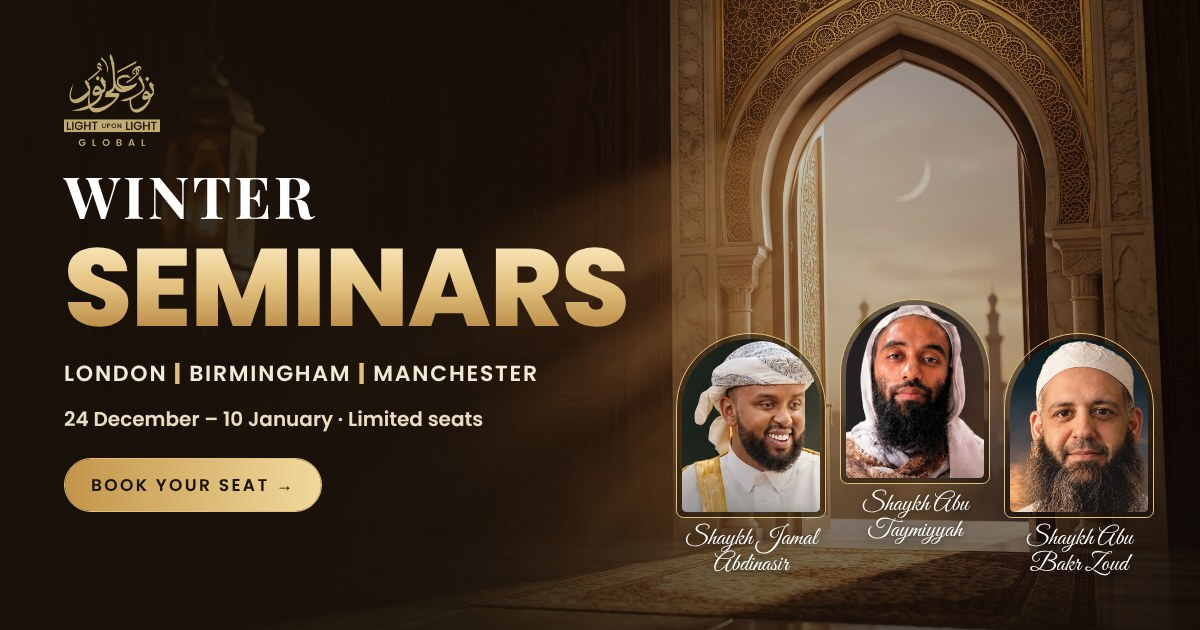
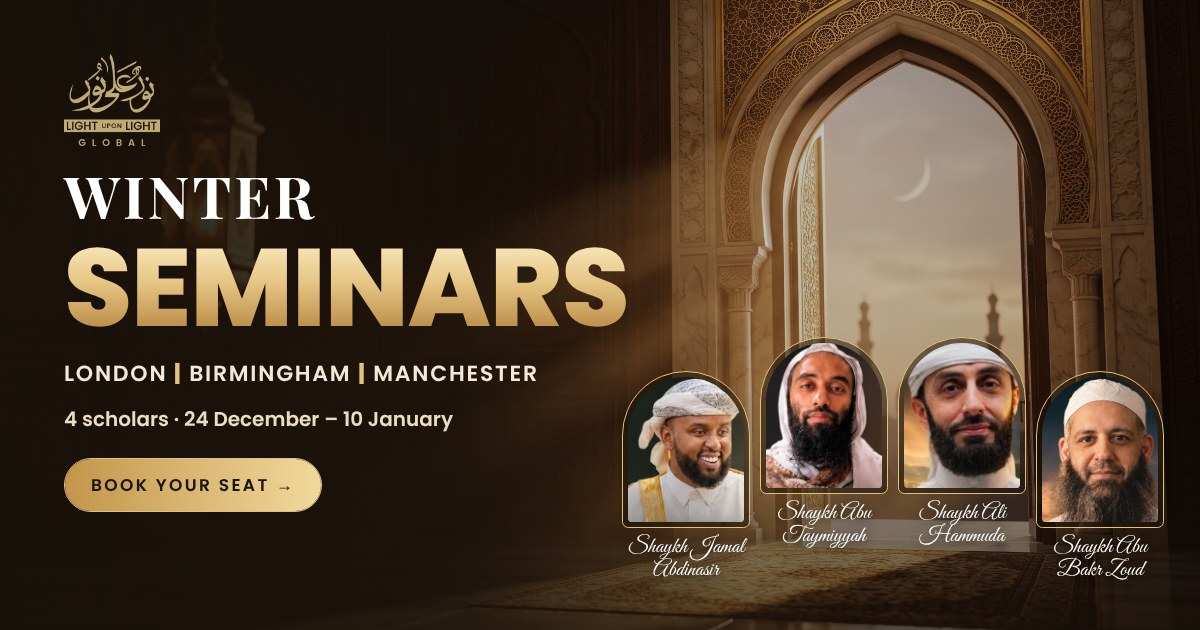
Add Shaykh Ali Hammuda: Ashab al-A'raf and Before You Say I Can't
Claude-Session: https://claude.ai/code/session_01KZfaKi19dkNuS3dSrDceg3

Changed region(s): [[0.5242, 0.4524, 0.9867, 0.9349], [0.0617, 0.6333, 0.4008, 0.6937]]

diff --git a/index.html b/index.html
@@ -3,15 +3,15 @@
 <head>
 <meta charset="utf-8">
 <meta name="viewport" content="width=device-width, initial-scale=1">
-<meta name="description" content="Light Upon Light Winter Seminars with Shaykh Jamal Abdinasir, Shaykh Abu Taymiyyah and Shaykh Abu Bakr Zoud. London, Birmingham and Manchester, 24 Dec – 10 Jan. Book your seat.">
+<meta name="description" content="Light Upon Light Winter Seminars with Shaykh Jamal Abdinasir, Shaykh Abu Taymiyyah, Shaykh Ali Hammuda and Shaykh Abu Bakr Zoud. London, Birmingham and Manchester, 24 Dec – 10 Jan. Book your seat.">
 <meta property="og:title" content="Winter Seminars · Light Upon Light">
-<meta property="og:description" content="Three scholars. Three cities. Book your seat for London, Birmingham or Manchester.">
+<meta property="og:description" content="Four scholars. Three cities. Book your seat for London, Birmingham or Manchester.">
 <meta property="og:type" content="website">
 <meta property="og:url" content="https://fatimahpatel42-ctrl.github.io/lightuponlight-seminars/">
 <meta property="og:image" content="https://fatimahpatel42-ctrl.github.io/lightuponlight-seminars/assets/og-cover.jpg">
 <meta property="og:image:width" content="1200">
 <meta property="og:image:height" content="630">
-<meta property="og:image:alt" content="Light Upon Light Winter Seminars with Shaykh Jamal Abdinasir, Shaykh Abu Taymiyyah and Shaykh Abu Bakr Zoud">
+<meta property="og:image:alt" content="Light Upon Light Winter Seminars with Shaykh Jamal Abdinasir, Shaykh Abu Taymiyyah, Shaykh Ali Hammuda and Shaykh Abu Bakr Zoud">
 <meta name="twitter:card" content="summary_large_image">
 <meta name="twitter:image" content="https://fatimahpatel42-ctrl.github.io/lightuponlight-seminars/assets/og-cover.jpg">
 <link rel="icon" href="assets/lul-logo.png">
@@ -92,6 +92,7 @@ h1.shine{animation:shimmer 6s linear infinite, fadeUp .9s cubic-bezier(.2,.7,.2,
 .bar-text span{display:none}
 .bar-text{font-size:13px !important;line-height:1.3 !important}
 .bar-faces{display:none !important}
+.arch-name{font-size:15px !important}
 #book{padding-top:64px !important;padding-bottom:48px !important}
 #book > div{gap:28px !important}
 #seminars{padding-top:56px !important;padding-bottom:0 !important}
@@ -144,7 +145,7 @@ h1.shine{animation:shimmer 6s linear infinite, fadeUp .9s cubic-bezier(.2,.7,.2,
 <p class="fu d2" style="margin: 0 0 6px; font-family: 'Playfair Display', serif; font-size: clamp(40px, 4.8vw, 72px); font-weight: 700; line-height: 1; letter-spacing: 0.06em; color: #FFFFFF; text-shadow: 0 4px 24px rgba(0,0,0,0.4)">WINTER</p>
 <h1 class="shine fu d3" style="margin: 0; font-weight: 800; font-size: clamp(66px, 9.4vw, 144px); line-height: 0.92; letter-spacing: -0.01em; text-transform: uppercase">Seminars</h1>
 </div>
-<p class="fu d4" style="margin: 0; max-width: 560px; font-size: clamp(18px, 1.7vw, 22px); font-weight: 400; line-height: 1.55; color: #F3EAD6">Three scholars. Three cities. Three nights to renew <span style="color: #F1D99C; font-weight: 600">your home</span>, <span style="color: #F1D99C; font-weight: 600">your Ramadan</span> and <span style="color: #F1D99C; font-weight: 600">your salah</span>.</p>
+<p class="fu d4" style="margin: 0; max-width: 560px; font-size: clamp(18px, 1.7vw, 22px); font-weight: 400; line-height: 1.55; color: #F3EAD6">Four scholars. Three cities. Winter nights to renew <span style="color: #F1D99C; font-weight: 600">your home</span>, <span style="color: #F1D99C; font-weight: 600">your Ramadan</span>, <span style="color: #F1D99C; font-weight: 600">your salah</span> and <span style="color: #F1D99C; font-weight: 600">your direction</span>.</p>
 
 <div class="fu d5" style="display: flex; flex-wrap: wrap; gap: 10px 28px; font-size: 15px; color: #E9DDC2">
 <span style="display: flex; align-items: center; gap: 8px"><svg width="18" height="18" viewBox="0 0 24 24" fill="none" stroke="#E2C17E" stroke-width="1.6" aria-hidden="true"><rect x="3" y="5" width="18" height="16" rx="1"></rect><path d="M3 10h18M8 3v4M16 3v4"></path></svg>24 Dec – 10 Jan</span>
@@ -162,18 +163,22 @@ h1.shine{animation:shimmer 6s linear infinite, fadeUp .9s cubic-bezier(.2,.7,.2,
 </div>
 
 <!-- speaker arches -->
-<div class="fu d4" style="flex: 1 1 460px; min-width: 0; display: flex; justify-content: center; align-items: flex-end; gap: 14px">
-<a href="#righteous-home" class="lift" style="flex: 1 1 0; max-width: 180px; display: flex; flex-direction: column; gap: 10px; text-decoration: none; text-align: center">
+<div class="fu d4" style="flex: 1 1 520px; min-width: 0; display: flex; justify-content: center; align-items: flex-end; gap: 12px">
+<a href="#righteous-home" class="lift" style="flex: 1 1 0; max-width: 160px; display: flex; flex-direction: column; gap: 10px; text-decoration: none; text-align: center">
 <div class="float1" style="border: 1px solid #E2C17E; border-radius: 120px 120px 10px 10px; padding: 6px; background: rgba(36,26,16,0.5)"><img src="assets/shaykh-jamal-abdinasir.jpg" alt="Shaykh Jamal Abdinasir" style="width: 100%; aspect-ratio: 4 / 5; object-fit: cover; display: block; border-radius: 114px 114px 6px 6px"></div>
-<span style="font-family: 'Great Vibes', cursive; font-size: 24px; line-height: 1.1; color: #F3EAD6">Shaykh Jamal Abdinasir</span>
+<span class="arch-name" style="font-family: 'Great Vibes', cursive; font-size: 22px; line-height: 1.1; color: #F3EAD6">Shaykh Jamal Abdinasir</span>
 </a>
-<a href="#productive-ramadan" class="lift" style="flex: 1 1 0; max-width: 200px; display: flex; flex-direction: column; gap: 10px; text-decoration: none; text-align: center; margin-bottom: 40px">
+<a href="#productive-ramadan" class="lift" style="flex: 1 1 0; max-width: 160px; display: flex; flex-direction: column; gap: 10px; text-decoration: none; text-align: center; margin-bottom: 36px">
 <div class="float2" style="border: 1px solid #E2C17E; border-radius: 120px 120px 10px 10px; padding: 6px; background: rgba(36,26,16,0.5)"><img src="assets/shaykh-abu-taymiyyah.jpg" alt="Shaykh Abu Taymiyyah" style="width: 100%; aspect-ratio: 4 / 5; object-fit: cover; display: block; border-radius: 114px 114px 6px 6px"></div>
-<span style="font-family: 'Great Vibes', cursive; font-size: 24px; line-height: 1.1; color: #F3EAD6">Shaykh Abu Taymiyyah</span>
+<span class="arch-name" style="font-family: 'Great Vibes', cursive; font-size: 22px; line-height: 1.1; color: #F3EAD6">Shaykh Abu Taymiyyah</span>
 </a>
-<a href="#al-fatiha" class="lift" style="flex: 1 1 0; max-width: 180px; display: flex; flex-direction: column; gap: 10px; text-decoration: none; text-align: center">
+<a href="#ashab-al-araf" class="lift" style="flex: 1 1 0; max-width: 160px; display: flex; flex-direction: column; gap: 10px; text-decoration: none; text-align: center; margin-bottom: 36px">
+<div class="float2" style="border: 1px solid #E2C17E; border-radius: 120px 120px 10px 10px; padding: 6px; background: rgba(36,26,16,0.5)"><img src="assets/shaykh-ali-hammuda.jpg" alt="Shaykh Ali Hammuda" style="width: 100%; aspect-ratio: 4 / 5; object-fit: cover; display: block; border-radius: 114px 114px 6px 6px"></div>
+<span class="arch-name" style="font-family: 'Great Vibes', cursive; font-size: 22px; line-height: 1.1; color: #F3EAD6">Shaykh Ali Hammuda</span>
+</a>
+<a href="#al-fatiha" class="lift" style="flex: 1 1 0; max-width: 160px; display: flex; flex-direction: column; gap: 10px; text-decoration: none; text-align: center">
 <div class="float3" style="border: 1px solid #E2C17E; border-radius: 120px 120px 10px 10px; padding: 6px; background: rgba(36,26,16,0.5)"><img src="assets/shaykh-abu-bakr-zoud.jpg" alt="Shaykh Abu Bakr Zoud" style="width: 100%; aspect-ratio: 4 / 5; object-fit: cover; display: block; border-radius: 114px 114px 6px 6px"></div>
-<span style="font-family: 'Great Vibes', cursive; font-size: 24px; line-height: 1.1; color: #F3EAD6">Shaykh Abu Bakr Zoud</span>
+<span class="arch-name" style="font-family: 'Great Vibes', cursive; font-size: 22px; line-height: 1.1; color: #F3EAD6">Shaykh Abu Bakr Zoud</span>
 </a>
 </div>
 </div>
@@ -187,7 +192,7 @@ h1.shine{animation:shimmer 6s linear infinite, fadeUp .9s cubic-bezier(.2,.7,.2,
 <div><p style="margin: 0; font-family: Cinzel, serif; font-size: 34px; font-weight: 700; line-height: 1; color: #8A6A2E">[XX+]</p><p style="margin: 4px 0 0; font-size: 12px; font-weight: 600; letter-spacing: 0.16em; text-transform: uppercase">Events held</p></div>
 <div><p style="margin: 0; font-family: Cinzel, serif; font-size: 34px; font-weight: 700; line-height: 1; color: #8A6A2E">[X]</p><p style="margin: 4px 0 0; font-size: 12px; font-weight: 600; letter-spacing: 0.16em; text-transform: uppercase">Countries</p></div>
 </div>
-<p style="margin: 0; max-width: 520px; font-size: 15px; color: #4E4434">Past Light Upon Light guests include <strong style="color: #2A2014">Mufti Menk, Sheikh Omar Suleiman, Sheikh Ali Hammuda</strong> and <strong style="color: #2A2014">Sheikh Belal Assaad</strong>.</p>
+<p style="margin: 0; max-width: 520px; font-size: 15px; color: #4E4434">Past Light Upon Light guests include <strong style="color: #2A2014">Mufti Menk, Sheikh Omar Suleiman</strong> and <strong style="color: #2A2014">Sheikh Belal Assaad</strong>.</p>
 </div>
 </section>
 
@@ -230,6 +235,20 @@ h1.shine{animation:shimmer 6s linear infinite, fadeUp .9s cubic-bezier(.2,.7,.2,
 <p style="margin: 0 0 4px; display: inline-block; font-size: 11px; font-weight: 700; letter-spacing: 0.16em; text-transform: uppercase; color: #1A140C; background: #F1D99C; padding: 2px 10px; border-radius: 999px">[Open to]</p>
 <p style="margin: 0; font-weight: 800; font-size: 22px; line-height: 1.2; text-transform: uppercase">The Most Productive Ramadan</p>
 <p style="margin: 0; font-size: 15px; color: #D9CFB8">with Shaykh Abu Taymiyyah · [Venue] · [Time]</p>
+</div>
+<div style="flex: 1 1 200px; display: flex; flex-direction: column; align-items: stretch; gap: 6px">
+<a href="https://lightuponlight.co.uk" class="btn-gold" style="background: linear-gradient(180deg,#F1D99C,#C3954A); color: #1A140C; text-decoration: none; font-weight: 700; font-size: 14px; letter-spacing: 0.12em; text-transform: uppercase; min-height: 52px; border-radius: 999px; display: flex; align-items: center; justify-content: center">Book · £[XX]</a>
+<p style="margin: 0; text-align: center; font-size: 12px; color: #CFC4AA">[Selling fast]</p>
+</div>
+</div>
+
+<div class="lift reveal" style="background: #3B2C1B; border: 1px solid rgba(226,193,126,0.35); border-radius: 20px; padding: 18px; display: flex; flex-wrap: wrap; align-items: center; gap: 20px 28px">
+<img src="assets/thumb-araf-london.jpg" alt="" style="width: 104px; height: 104px; object-fit: cover; object-position: center top; border-radius: 12px; border: 1px solid rgba(226,193,126,0.4); display: block; flex: none">
+<div style="flex: none; width: 84px; text-align: center"><p class="gold-text" style="margin: 0; font-family: Cinzel, serif; font-size: 44px; font-weight: 700; line-height: 1">26</p><p style="margin: 2px 0 0; font-size: 12px; font-weight: 600; letter-spacing: 0.24em; color: #E2C17E">DEC</p><p style="margin: 6px 0 0; font-family: 'Playfair Display', serif; font-style: italic; font-size: 14px; color: #F3EAD6">Saturday</p></div>
+<div style="flex: 999 1 260px; min-width: 0">
+<p style="margin: 0 0 4px; display: inline-block; font-size: 11px; font-weight: 700; letter-spacing: 0.16em; text-transform: uppercase; color: #1A140C; background: #F1D99C; padding: 2px 10px; border-radius: 999px">[Open to]</p>
+<p style="margin: 0; font-weight: 800; font-size: 22px; line-height: 1.2; text-transform: uppercase">Ashab al-A'raf</p>
+<p style="margin: 0; font-size: 15px; color: #D9CFB8">with Shaykh Ali Hammuda · [Venue] · [Time]</p>
 </div>
 <div style="flex: 1 1 200px; display: flex; flex-direction: column; align-items: stretch; gap: 6px">
 <a href="https://lightuponlight.co.uk" class="btn-gold" style="background: linear-gradient(180deg,#F1D99C,#C3954A); color: #1A140C; text-decoration: none; font-weight: 700; font-size: 14px; letter-spacing: 0.12em; text-transform: uppercase; min-height: 52px; border-radius: 999px; display: flex; align-items: center; justify-content: center">Book · £[XX]</a>
@@ -281,6 +300,20 @@ h1.shine{animation:shimmer 6s linear infinite, fadeUp .9s cubic-bezier(.2,.7,.2,
 </div>
 
 <div class="lift reveal" style="background: #3B2C1B; border: 1px solid rgba(226,193,126,0.35); border-radius: 20px; padding: 18px; display: flex; flex-wrap: wrap; align-items: center; gap: 20px 28px">
+<img src="assets/thumb-before-you-say.jpg" alt="" style="width: 104px; height: 104px; object-fit: cover; object-position: center top; border-radius: 12px; border: 1px solid rgba(226,193,126,0.4); display: block; flex: none">
+<div style="flex: none; width: 84px; text-align: center"><p class="gold-text" style="margin: 0; font-family: Cinzel, serif; font-size: 44px; font-weight: 700; line-height: 1">27</p><p style="margin: 2px 0 0; font-size: 12px; font-weight: 600; letter-spacing: 0.24em; color: #E2C17E">DEC</p><p style="margin: 6px 0 0; font-family: 'Playfair Display', serif; font-style: italic; font-size: 14px; color: #F3EAD6">Sunday</p></div>
+<div style="flex: 999 1 260px; min-width: 0">
+<p style="margin: 0 0 4px; display: inline-block; font-size: 11px; font-weight: 700; letter-spacing: 0.16em; text-transform: uppercase; color: #1A140C; background: #F1D99C; padding: 2px 10px; border-radius: 999px">[Open to]</p>
+<p style="margin: 0; font-weight: 800; font-size: 22px; line-height: 1.2; text-transform: uppercase">Before You Say “I Can’t”</p>
+<p style="margin: 0; font-size: 15px; color: #D9CFB8">with Shaykh Ali Hammuda · [Venue] · [Time]</p>
+</div>
+<div style="flex: 1 1 200px; display: flex; flex-direction: column; align-items: stretch; gap: 6px">
+<a href="https://lightuponlight.co.uk" class="btn-gold" style="background: linear-gradient(180deg,#F1D99C,#C3954A); color: #1A140C; text-decoration: none; font-weight: 700; font-size: 14px; letter-spacing: 0.12em; text-transform: uppercase; min-height: 52px; border-radius: 999px; display: flex; align-items: center; justify-content: center">Book · £[XX]</a>
+<p style="margin: 0; text-align: center; font-size: 12px; color: #CFC4AA">[Selling fast]</p>
+</div>
+</div>
+
+<div class="lift reveal" style="background: #3B2C1B; border: 1px solid rgba(226,193,126,0.35); border-radius: 20px; padding: 18px; display: flex; flex-wrap: wrap; align-items: center; gap: 20px 28px">
 <img src="assets/thumb-al-fatiha.jpg" alt="" style="width: 104px; height: 104px; object-fit: cover; object-position: center top; border-radius: 12px; border: 1px solid rgba(226,193,126,0.4); display: block; flex: none">
 <div style="flex: none; width: 84px; text-align: center"><p class="gold-text" style="margin: 0; font-family: Cinzel, serif; font-size: 44px; font-weight: 700; line-height: 1">10</p><p style="margin: 2px 0 0; font-size: 12px; font-weight: 600; letter-spacing: 0.24em; color: #E2C17E">JAN</p><p style="margin: 6px 0 0; font-family: 'Playfair Display', serif; font-style: italic; font-size: 14px; color: #F3EAD6">Sunday</p></div>
 <div style="flex: 999 1 260px; min-width: 0">
@@ -316,6 +349,20 @@ h1.shine{animation:shimmer 6s linear infinite, fadeUp .9s cubic-bezier(.2,.7,.2,
 <p style="margin: 0 0 4px; display: inline-block; font-size: 11px; font-weight: 700; letter-spacing: 0.16em; text-transform: uppercase; color: #1A140C; background: #F1D99C; padding: 2px 10px; border-radius: 999px">[Open to]</p>
 <p style="margin: 0; font-weight: 800; font-size: 22px; line-height: 1.2; text-transform: uppercase">The Most Productive Ramadan</p>
 <p style="margin: 0; font-size: 15px; color: #D9CFB8">with Shaykh Abu Taymiyyah · [Venue] · [Time]</p>
+</div>
+<div style="flex: 1 1 200px; display: flex; flex-direction: column; align-items: stretch; gap: 6px">
+<a href="https://lightuponlight.co.uk" class="btn-gold" style="background: linear-gradient(180deg,#F1D99C,#C3954A); color: #1A140C; text-decoration: none; font-weight: 700; font-size: 14px; letter-spacing: 0.12em; text-transform: uppercase; min-height: 52px; border-radius: 999px; display: flex; align-items: center; justify-content: center">Book · £[XX]</a>
+<p style="margin: 0; text-align: center; font-size: 12px; color: #CFC4AA">[Selling fast]</p>
+</div>
+</div>
+
+<div class="lift reveal" style="background: #3B2C1B; border: 1px solid rgba(226,193,126,0.35); border-radius: 20px; padding: 18px; display: flex; flex-wrap: wrap; align-items: center; gap: 20px 28px">
+<img src="assets/thumb-araf-manchester.jpg" alt="" style="width: 104px; height: 104px; object-fit: cover; object-position: center top; border-radius: 12px; border: 1px solid rgba(226,193,126,0.4); display: block; flex: none">
+<div style="flex: none; width: 84px; text-align: center"><p class="gold-text" style="margin: 0; font-family: Cinzel, serif; font-size: 44px; font-weight: 700; line-height: 1">28</p><p style="margin: 2px 0 0; font-size: 12px; font-weight: 600; letter-spacing: 0.24em; color: #E2C17E">DEC</p><p style="margin: 6px 0 0; font-family: 'Playfair Display', serif; font-style: italic; font-size: 14px; color: #F3EAD6">Monday</p></div>
+<div style="flex: 999 1 260px; min-width: 0">
+<p style="margin: 0 0 4px; display: inline-block; font-size: 11px; font-weight: 700; letter-spacing: 0.16em; text-transform: uppercase; color: #1A140C; background: #F1D99C; padding: 2px 10px; border-radius: 999px">[Open to]</p>
+<p style="margin: 0; font-weight: 800; font-size: 22px; line-height: 1.2; text-transform: uppercase">Ashab al-A'raf</p>
+<p style="margin: 0; font-size: 15px; color: #D9CFB8">with Shaykh Ali Hammuda · [Venue] · [Time]</p>
 </div>
 <div style="flex: 1 1 200px; display: flex; flex-direction: column; align-items: stretch; gap: 6px">
 <a href="https://lightuponlight.co.uk" class="btn-gold" style="background: linear-gradient(180deg,#F1D99C,#C3954A); color: #1A140C; text-decoration: none; font-weight: 700; font-size: 14px; letter-spacing: 0.12em; text-transform: uppercase; min-height: 52px; border-radius: 999px; display: flex; align-items: center; justify-content: center">Book · £[XX]</a>
@@ -374,6 +421,55 @@ h1.shine{animation:shimmer 6s linear infinite, fadeUp .9s cubic-bezier(.2,.7,.2,
 </div>
 <div class="reveal" style="flex: 1 1 360px; min-width: 0; max-width: 460px; margin: 0 auto; border: 1px solid #C9A660; border-radius: 230px 230px 16px 16px; padding: 10px; background: #FFFFFF; box-shadow: 0 30px 70px rgba(60,40,15,0.18)">
 <img src="assets/poster-productive-ramadan.jpg" alt="How to Have the Most Productive Ramadan poster" style="width: 100%; height: auto; display: block; border-radius: 222px 222px 10px 10px">
+</div>
+</div>
+</section>
+
+<!-- SEMINAR: ASHAB AL-ARAF -->
+<section id="ashab-al-araf" style="background: #F6EEDC; color: #2A2014; padding: 56px 28px">
+<div style="max-width: 1180px; margin: 0 auto; display: flex; flex-wrap: wrap; gap: 64px; align-items: center">
+<div class="reveal" style="flex: 1 1 360px; min-width: 0; max-width: 460px; margin: 0 auto; border: 1px solid #C9A660; border-radius: 230px 230px 16px 16px; padding: 10px; background: #FFFFFF; box-shadow: 0 30px 70px rgba(60,40,15,0.18)">
+<img src="assets/poster-ashab-al-araf.jpg" alt="Ashab al-Araf seminar poster with Shaykh Ali Hammuda" style="width: 100%; height: auto; display: block; border-radius: 222px 222px 10px 10px">
+</div>
+<div class="reveal" style="flex: 999 1 480px; min-width: 0; display: flex; flex-direction: column; gap: 18px">
+<div style="display: flex; flex-wrap: wrap; gap: 8px"><span style="background: #2A2014; color: #F2DFAE; font-size: 11px; font-weight: 700; letter-spacing: 0.16em; text-transform: uppercase; padding: 5px 12px; border-radius: 999px">[Open to]</span><span style="border: 1px solid #C9A660; color: #6E5524; font-size: 11px; font-weight: 700; letter-spacing: 0.16em; text-transform: uppercase; padding: 4px 12px; border-radius: 999px">London 26 Dec · Manchester 28 Dec</span></div>
+<div>
+<p style="margin: 0; font-family: 'Playfair Display', serif; font-size: clamp(13px, 1.3vw, 16px); font-weight: 700; letter-spacing: 0.22em; text-transform: uppercase; color: #6E5524">The cost of a life without direction</p>
+<h3 style="margin: 4px 0 0; font-family: 'Playfair Display', serif; font-weight: 800; font-size: clamp(40px, 4.6vw, 66px); line-height: 1; color: #9A7535">ASHAB AL-A'RAF</h3>
+<p style="margin: 8px 0 0; font-size: 13px; font-weight: 600; letter-spacing: 0.4em; text-transform: uppercase; color: #4E4434">The People of the Heights</p>
+</div>
+<p style="margin: 0; font-family: 'Great Vibes', cursive; font-size: 32px; line-height: 1.1; color: #6E5524">Shaykh Ali Hammuda</p>
+<p style="margin: 0; font-size: 17px; color: #4E4434">Between Paradise and the Fire stand a people whose scales were balanced. Their story is a wake-up call for anyone drifting through life without direction.</p>
+<ul style="margin: 0; padding: 0; list-style: none; display: flex; flex-direction: column; gap: 10px">
+<li style="display: flex; gap: 12px"><span aria-hidden="true" style="color: #9A7535; font-weight: 700">✦</span>Who the People of the Heights are, from Sūrat al-Aʿrāf</li>
+<li style="display: flex; gap: 12px"><span aria-hidden="true" style="color: #9A7535; font-weight: 700">✦</span>The real cost of living without a clear direction</li>
+<li style="display: flex; gap: 12px"><span aria-hidden="true" style="color: #9A7535; font-weight: 700">✦</span>Set your compass and tip the scales towards good</li>
+</ul>
+<a href="#book" class="btn-gold" style="align-self: flex-start; margin-top: 6px; background: #2A2014; color: #F2DFAE; text-decoration: none; font-weight: 700; font-size: 14px; letter-spacing: 0.12em; text-transform: uppercase; padding: 0 30px; border-radius: 999px; min-height: 54px; display: inline-flex; align-items: center">Book Ashab al-A'raf</a>
+</div>
+</div>
+</section>
+
+<!-- SEMINAR: BEFORE YOU SAY I CAN'T -->
+<section id="before-you-say" style="background: #F6EEDC; color: #2A2014; padding: 56px 28px">
+<div style="max-width: 1180px; margin: 0 auto; display: flex; flex-wrap: wrap-reverse; gap: 64px; align-items: center">
+<div class="reveal" style="flex: 999 1 480px; min-width: 0; display: flex; flex-direction: column; gap: 18px">
+<div style="display: flex; flex-wrap: wrap; gap: 8px"><span style="background: #2A2014; color: #F2DFAE; font-size: 11px; font-weight: 700; letter-spacing: 0.16em; text-transform: uppercase; padding: 5px 12px; border-radius: 999px">[Open to]</span><span style="border: 1px solid #C9A660; color: #6E5524; font-size: 11px; font-weight: 700; letter-spacing: 0.16em; text-transform: uppercase; padding: 4px 12px; border-radius: 999px">Birmingham 27 Dec</span></div>
+<div>
+<h3 style="margin: 0; font-family: 'Playfair Display', serif; font-weight: 800; font-size: clamp(38px, 4.4vw, 62px); line-height: 1.02; color: #9A7535">BEFORE YOU SAY “I CAN'T”</h3>
+<p style="margin: 10px 0 0; font-size: 15px; font-weight: 600; color: #4E4434">Addressing 10 psychological barriers to achieving one's project</p>
+</div>
+<p style="margin: 0; font-family: 'Great Vibes', cursive; font-size: 32px; line-height: 1.1; color: #6E5524">Shaykh Ali Hammuda</p>
+<p style="margin: 0; font-size: 17px; color: #4E4434">Often the biggest thing standing between you and your goal is the voice in your own head. A night to name those barriers, and to move past them.</p>
+<ul style="margin: 0; padding: 0; list-style: none; display: flex; flex-direction: column; gap: 10px">
+<li style="display: flex; gap: 12px"><span aria-hidden="true" style="color: #9A7535; font-weight: 700">✦</span>The 10 psychological barriers that stop people starting, and finishing</li>
+<li style="display: flex; gap: 12px"><span aria-hidden="true" style="color: #9A7535; font-weight: 700">✦</span>Faith-rooted tools for fear, procrastination and self-doubt</li>
+<li style="display: flex; gap: 12px"><span aria-hidden="true" style="color: #9A7535; font-weight: 700">✦</span>Leave ready to take the first step on your project</li>
+</ul>
+<a href="#book" class="btn-gold" style="align-self: flex-start; margin-top: 6px; background: #2A2014; color: #F2DFAE; text-decoration: none; font-weight: 700; font-size: 14px; letter-spacing: 0.12em; text-transform: uppercase; padding: 0 30px; border-radius: 999px; min-height: 54px; display: inline-flex; align-items: center">Book Before You Say “I Can't”</a>
+</div>
+<div class="reveal" style="flex: 1 1 360px; min-width: 0; max-width: 460px; margin: 0 auto; border: 1px solid #C9A660; border-radius: 230px 230px 16px 16px; padding: 10px; background: #FFFFFF; box-shadow: 0 30px 70px rgba(60,40,15,0.18)">
+<img src="assets/poster-before-you-say.jpg" alt="Before You Say I Can't seminar poster with Shaykh Ali Hammuda" style="width: 100%; height: auto; display: block; border-radius: 222px 222px 10px 10px">
 </div>
 </div>
 </section>
@@ -478,6 +574,7 @@ h1.shine{animation:shimmer 6s linear infinite, fadeUp .9s cubic-bezier(.2,.7,.2,
 <div style="display: flex; justify-content: center">
 <img src="assets/face-jamal.jpg" alt="" style="width: 76px; height: 76px; border-radius: 50%; object-fit: cover; border: 2px solid #E2C17E">
 <img src="assets/face-taymiyyah.jpg" alt="" style="width: 76px; height: 76px; border-radius: 50%; object-fit: cover; border: 2px solid #E2C17E; margin-left: -14px">
+<img src="assets/face-ali.jpg" alt="" style="width: 76px; height: 76px; border-radius: 50%; object-fit: cover; border: 2px solid #E2C17E; margin-left: -14px">
 <img src="assets/face-zoud.jpg" alt="" style="width: 76px; height: 76px; border-radius: 50%; object-fit: cover; border: 2px solid #E2C17E; margin-left: -14px">
 </div>
 <h2 class="shine reveal" style="margin: 0; font-weight: 800; font-size: clamp(40px, 5vw, 72px); line-height: 0.98; text-transform: uppercase">Seats are limited</h2>
@@ -522,6 +619,7 @@ h1.shine{animation:shimmer 6s linear infinite, fadeUp .9s cubic-bezier(.2,.7,.2,
 <div aria-hidden="true" class="bar-faces" style="display: flex; flex: none">
 <img src="assets/face-jamal.jpg" alt="" style="width: 38px; height: 38px; border-radius: 50%; object-fit: cover; border: 1px solid #E2C17E">
 <img src="assets/face-taymiyyah.jpg" alt="" style="width: 38px; height: 38px; border-radius: 50%; object-fit: cover; border: 1px solid #E2C17E; margin-left: -10px">
+<img src="assets/face-ali.jpg" alt="" style="width: 38px; height: 38px; border-radius: 50%; object-fit: cover; border: 1px solid #E2C17E; margin-left: -10px">
 <img src="assets/face-zoud.jpg" alt="" style="width: 38px; height: 38px; border-radius: 50%; object-fit: cover; border: 1px solid #E2C17E; margin-left: -10px">
 </div>
 <p class="bar-text" style="margin: 0; font-size: 14px; line-height: 1.35"><strong style="color: #F1D99C">Winter Seminars</strong> · 24 Dec – 10 Jan<br><span style="color: #CFC4AA">London · Birmingham · Manchester · from £[XX]</span></p>
